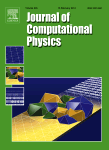
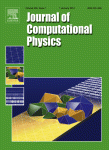
added support for images in publications list

diff --git a/css/screen.css b/css/screen.css
@@ -151,16 +151,22 @@ body { background: #ccc url('noisy_grid.png') fixed; }
   background: #fff;
 }
 
-#nav a, #sidenav a, .logos a, #articles a {
+#nav a, .logos a, #articles a.button {
   -webkit-transition: all 0.15s ease-in-out; 
      -moz-transition: all 0.15s ease-in-out; 
           transition: all 0.15s ease-in-out; 
 }
 
+#articles a.thumbnail {
+  -webkit-transition: opacity 0.2s ease-in-out; 
+     -moz-transition: opacity 0.2s ease-in-out; 
+          transition: opacity 0.2s ease-in-out; 
+}
+
 #header-wrap, #nav-wrap, #content-wrap, #footer-wrap, #nav  { 
-  -webkit-transition: width 0.25s ease-in-out; 
-     -moz-transition: width 0.25s ease-in-out; 
-          transition: width 0.25s ease-in-out; 
+  -webkit-transition: width 0.5s ease-in-out; 
+     -moz-transition: width 0.5s ease-in-out; 
+          transition: width 0.5s ease-in-out; 
 }
 
 #header { background: #eee url('banner.jpg'); background-size: cover; }
@@ -316,7 +322,6 @@ code.block, pre.code, .article textarea.bibtex  {
 }
 
 #publications-form {
-  padding-top: 1em;
   padding-bottom: 0em;
 }
 
@@ -370,41 +375,65 @@ code.block, pre.code, .article textarea.bibtex  {
 .course .title { font-size: 110%; border-bottom: 1px dotted #aaa; padding-bottom: 0.6em; line-height: 1.3;}
 .course img { float: right; width: 30%; margin-left: -5em; }
 
-.even { background: #faeeee; }
+.even { background: #faf3f3; }
 .odd { background: #ffffff; }
 
-#articles { margin-bottom: 1.5em; border: 1px solid #dbb; }
-.article { padding: 1em; position: relative; overflow: hidden;}
-.article:first-child { border-top-left-radius: 0.3em; }
-.article:last-child { border-bottom-left-radius: 0.3em; }
-.article { border-bottom: 1px dotted #aaa;}
-.article .thumbnail img { background: #aaa; height: 7em; width: 5em; }
-.article .thumbnail { border: 1px solid #666; float:left; height: 7em; margin: -0.5em 0.75em -0.5em -0.5em; overflow: hidden;
-filter: grayscale(100%) brightness(30%); -webkit-filter: grayscale(100%) brightness(30%); -moz-filter: grayscale(100%) brightness(30%); }
-.article .thumbnail-active { 
-filter: grayscale(0%) brightness(0%); -webkit-filter: grayscale(0%) brightness(0%); -moz-filter: grayscale(0%) brightness(0%); }
-.article .authors { margin-bottom: 0.8em;}
+#articles { margin-bottom: 1.5em; border: 1px solid #ecc; }
+#articles .loading {
+  display: block; text-align: center;
+  padding: 5em;
+  font-weight: bold;
+}
+.article { position: relative; overflow: hidden; min-height: 6.5em; }
+.article { border-bottom: 1px solid #ecc; }
+.article:first-child { }
+.article:last-child { border-bottom: none; }
+.article .thumbnail img { height: 100%; width: 100%; }
+.article .thumbnail {
+  opacity: 0.4;
+  background:#fff;
+  float: left;
+  height: 6.5em;
+  width: 4.75em;
+  margin-right: 0.75em ;
+  overflow: hidden;
+  filter: grayscale(100%);
+  -webkit-filter: grayscale(100%);
+  -moz-filter: grayscale(100%);
+}
+.article .thumbnail-active {
+  opacity: 1.0;
+  filter: grayscale(0%);
+  -webkit-filter: grayscale(0%);
+  -moz-filter: grayscale(0%); 
+}
+.article .authors { margin: 0.75em 0 0.4em 0; font-size: 87.5%; }
 .article .author { }
-.article .journal { }
+.article .journal { font-size: 90%; }
 .article .journal strong { font-weight: bold; }
-.article .title { font-weight: bold; font-style: italic; margin-bottom: 0.8em; padding-right: 8em;}
+.article .title { font-size: 95%; font-weight: bold; font-style: italic; margin-bottom: 0.4em; padding-right: 8em; }
 .article .bibtex { display: none; }
 .article textarea.bibtex {
-  width: 60em;
-  height: 15.5em;
+  width: 100%;
+  height: 15em;
+  line-height: 1.2em;
   font-size: 80%;
-  margin: 1.5em -2em -2em -2em;
-  padding: 1.2em 2em;  
-  box-shadow: inset 0em 5em 10em -5em rgba(0,0,0,0.2);
-  background: #eee;
+  padding: 1em 1em 0;  
+  box-shadow: inset 0em 2em 5em -2em rgba(0,0,0,0.2);
+  background: rgba(255,255,255,0.5);
   border: 1px solid #ccc;
+  border-left: none;
+  border-top:none;
   color:#333;
+  margin: 0;
 }
 
 .article .abstract { 
   display: none; 
-  margin-top: 1em;  
+  clear: both; 
   font-size: 90%; 
+  background:rgba(220,220,220,0.35);
+  padding: 0.75em; 
   
   text-align:justify;
   
@@ -435,9 +464,9 @@ filter: grayscale(0%) brightness(0%); -webkit-filter: grayscale(0%) brightness(0
   -webkit-user-select: none; 
 }
 #content .article a.button i { margin-right: 0.1em; }
-.article a.button-top { top: 0.5em; }
-.article a.button-abstract { top: 2.5em; }
-.article a.button-bottom { top: 4.5em; }
+.article a.button-top { top: 0.75em; }
+.article a.button-abstract { top: 2.75em; }
+.article a.button-bottom { top: 4.75em; }
 pre.bibtex { margin-bottom: 0; }
 #content .article a.button:hover {
   border: 1px solid #b77;

diff --git a/pages/publications.html b/pages/publications.html
@@ -9,44 +9,53 @@
 <h3 id="journal-publications">Journal Publications</h3>
 
 <form id="publications-form">
-  <label for="select-year">Year</label>
-    <select id="select-year">
-      <option value="">All</option>
-      <option value="2013">2013</option>
-      <option value="2012">2012</option>
-      <option value="2011">2011</option>
-      <option value="2010">2010</option>
-      <option value="2009">2009</option>
-      <option value="2008">2008</option>
-    </select>
-    <label for="select-author">Author</label>
-    <select id="select-author">
-      <option value="">Any</option>
-      <optgroup label='-'>
-      </optgroup>
-    </select>
-    <label for="select-year">Journal</label>
-    <select id="select-journal">
-      <option value="">Any</option>
-      <optgroup label='-'>
-      </optgroup>
-    </select>
   <!--
-    <select>
-      <option value="">Research area</option>
-      <option value="">Markov Chain Monte Carlo</option>
-      <option value="">Optimal Experiment Design</option>
-      <option value="">Polynomial Chaos Expansion</option>
-    </select>
+  <label for="select-year">Year</label>
   -->
-    <a class="btn" value="Go" onclick="alert('Not Implemented Yet');">Go</a>
-    <a class="btn" value="Reset">Reset</a>   
+  <select id="select-year">
+    <option value="">Year</option>
+    <optgroup label='-'>
+    </optgroup>
+    <option value="2013">2013</option>
+    <option value="2012">2012</option>
+    <option value="2011">2011</option>
+    <option value="2010">2010</option>
+    <option value="2009">2009</option>
+    <option value="2008">2008</option>
+  </select>
+  <!--
+  <label for="select-author">Author</label>
+  -->
+  <select id="select-author">
+    <option value="">Author</option>
+    <optgroup label='-'>
+    </optgroup>
+  </select>
+  <!--
+  <label for="select-journal">Journal</label>
+  -->
+  <select id="select-journal">
+    <option value="">Journal</option>
+    <optgroup label='-'>
+    </optgroup>
+  </select>
+  <!--
+  <select>
+    <option value="">Research area</option>
+    <option value="">Markov Chain Monte Carlo</option>
+    <option value="">Optimal Experiment Design</option>
+    <option value="">Polynomial Chaos Expansion</option>
+  </select>
+  -->
+  <a class="btn" onclick="resetFilters()">Reset</a>   
 </form>
 <br />
 
 <div id="articles">
-  
+  <p class="loading">Loading Articles</p>
 </div>
+
+<p id="notfound" style="display:none"><strong>No articles found matching filter.</strong></p>
 
 <h3 id="book-chapters">Book Chapters</h3>
 <ol>
@@ -126,12 +135,67 @@ function populateFilters(articles) {
   $('#select-journal').append(options);
 }
 
+function resetFilters() {
+  $('select').val('');
+  articleFilter();
+}
+
+function articleFilter() {
+  
+  var count = 0;
+  
+  var year = $('#select-year').val();
+  var author = $('#select-author').val();
+  var journal = $('#select-journal').val();
+  
+  $.each(articles, function(index, article) {
+    var selector = '#article-' + index;
+    
+    var allowed = true;
+    if (year != '' && article.year.indexOf(year) == -1) { 
+      allowed = false; 
+    }
+    if (author != '' && $.inArray(author, article.authors) == -1) {
+      allowed = false; 
+    }
+    if (journal != '' && article.journal.indexOf(journal) == -1) { 
+      allowed = false; 
+    }
+    
+    if (allowed) {
+      if (count == 0) {
+        $('#articles').show();
+        $('#notfound').hide();
+      }
+      $(selector).show();
+      count = count + 1;
+    } else {
+      $(selector).hide();
+    }
+    
+  });
+  
+  if (count == 0) {
+    $('#articles').hide();
+    $('#notfound').show();
+  }
+  
+}
+
+var articles = [];
+
 $(document).ready(function() {
   $.getJSON('json/publications.json', function(data) {
+    $('#articles .loading').hide();
     articles = data.articles; 
     $.each(articles, renderArticle);
     populateFilters(articles);
     articlesAttachHover();
+    
+    $("select").change(function () {
+      articleFilter();
+    });
+    
   });
 });
 

diff --git a/js/uqgroup.js b/js/uqgroup.js
@@ -39,6 +39,8 @@ $(function() {
 });
 
 function renderArticle(index, article) {
+
+  var article_id = 'article-' + index;
   
   var authors = []; 
   $.each(article.authors, function(key, val) {
@@ -66,9 +68,13 @@ function renderArticle(index, article) {
   var journal = '<div class="journal">' + article.journal + ' <strong>' + article.volume + '</strong>' + pages + ' ('+ article.year + ')</div>\n';
   var link = '<a href="' + article.fulltext + '" class="button button-top" target="_new"><i class="icon-external-link"></i> Fulltext</a>\n';  
   var zebra = (index % 2 == 0) ? 'even' : 'odd';   
-  var article = ['<div class="article ' + zebra + '">\n', link, showabstract, showbibtex, authors, title, journal, abstract, bibtex, '</div>\n'].join('');
+  var thumbnail_url = (article.thumbnail != undefined && article.thumbnail.length > 1) ? 'images/publications/' + article.thumbnail : 'images/publications/none.png';
+  var thumbnail_img = (thumbnail_url != '') ? '<img src="' + thumbnail_url + '" alt="thumbnail" />' : '';
+  var thumbnail = '<a class="thumbnail" href="'+article.fulltext+'" target="_new">' + thumbnail_img + '</a>';
+  var article = ['<div id="' + article_id +'" class="article ' + zebra + '">\n', thumbnail, link, showabstract, showbibtex, authors, title, journal, abstract, bibtex, '</div>\n'].join('');
   $('#articles').append(article);
 }
+
 
 function articlesAttachHover() {
 

diff --git a/index.php b/index.php
@@ -25,7 +25,6 @@ if (file_exists($page)) {
   <link href="http://netdna.bootstrapcdn.com/font-awesome/3.0/css/font-awesome.css"  rel="stylesheet" type="text/css" />
   <script type="text/javascript" src="https://ajax.googleapis.com/ajax/libs/jquery/1.9.0/jquery.min.js"></script>
   <script type="text/javascript" src="http://cdn.mathjax.org/mathjax/latest/MathJax.js?config=TeX-AMS-MML_HTMLorMML"></script>
-  <script type="text/javascript" src="js/hyphenate.js"></script>
 </head>
 <body id="top">
 <div id="header-wrap">
